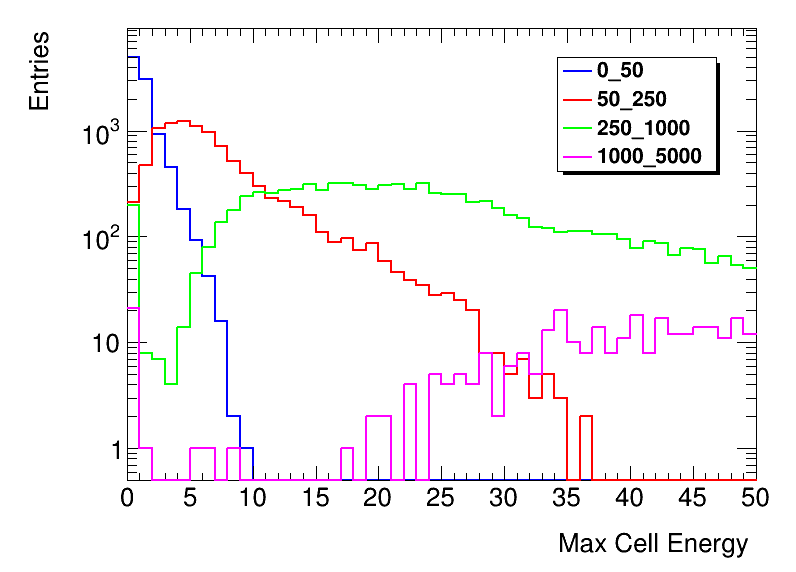
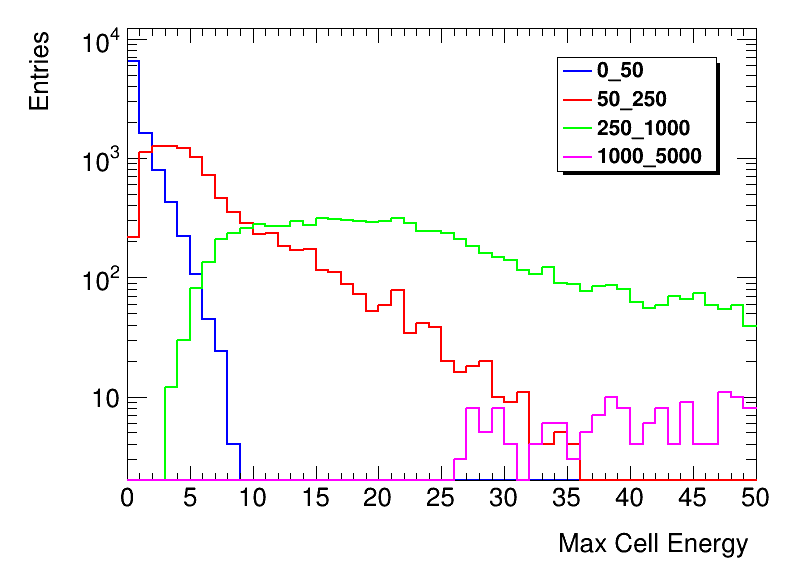
plots

diff --git a/electronShowerStudies2.py b/electronShowerStudies2.py
@@ -10,7 +10,7 @@ import numpy as np
 ROOT.gROOT.SetBatch()
 
 # Set up some options
-max_events = 10
+max_events = -1
 
 import os
 
@@ -19,8 +19,8 @@ import os
 #samples = glob.glob("/data/fmeloni/DataMuC_MAIA_v0/v3/electronGun*")
 #samples = glob.glob("/data/fmeloni/DataMuC_MAIA_v0/v4rotated/electronGun*")
 #samples = glob.glob("/data/fmeloni/DataMuC_MAIA_v0/v4/electronGun*")
-samples = glob.glob("/data/fmeloni/DataMuC_MuColl10_v0A/v0/reco/electronGun*")
-
+#samples = glob.glob("/data/fmeloni/DataMuC_MuColl10_v0A/v0/reco/electronGun*")
+samples = glob.glob("/data/fmeloni/DataMuC_MAIA_v0/v5/reco/electronGun*")
 files = {}
 slices = ["0_50", "50_250", "250_1000", "1000_5000"]
 for s in slices:
@@ -183,7 +183,7 @@ def generate_expected_em_profile(num_layers=50, energy=10.0, X0_scale=0.6286):
 
 def get_profile_discrepancy(energy_by_layer, total_energy, energy=10.0,
                              min_fraction_per_layer=0.6,
-                             num_layers=50):
+                             num_layers=50, X0_per_layer=0.628):
     ## .63 fraction/layer comes from barrel ecal tungsten being 2.2mm/3.5mm(each layer) = .6286
     if total_energy == 0 or len(energy_by_layer) < 3:
         return -1, -1.0

diff --git a/electronStudies.py b/electronStudies.py
@@ -105,7 +105,7 @@ for s in files:
             n_matched_el = 0
             n_clusters = 0
             #my_mcp_el = None
-
+            no_mcp_count = 0
             # Get the collections we care about
             #mcps = event.get("MCParticle")
             #pfos = event.get("PandoraPFOs")
@@ -115,6 +115,7 @@ for s in files:
                 mcps = event.getCollection("MCParticle")
             except:
                 mcps = []
+                no_mcp_count += 1
                 print("No MCP")
             pfos = event.getCollection("PandoraPFOs")
             trks = event.getCollection("SiTracks") #also changed from SiTracks_refitted
@@ -375,7 +376,7 @@ for s in hists:
     print(f"{label_map.get(s, s)}: matched = {int(matched)}, total = {int(total)}, eff = {efficiency:.3f}")
 
 
-
+print(no_mcp_count)
 for i, h in enumerate(hists[s]):
     if h in ["cluster_nhits", "cluster_r"]:
         continue
